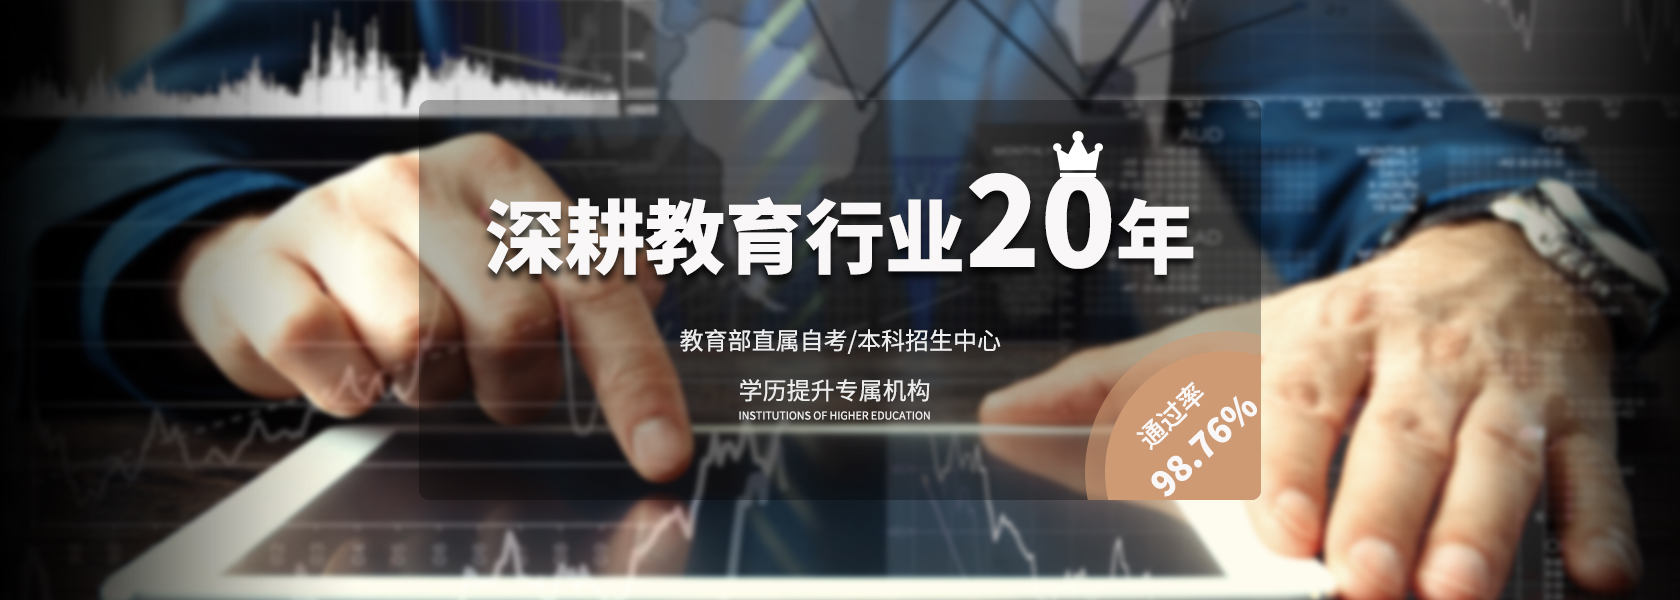
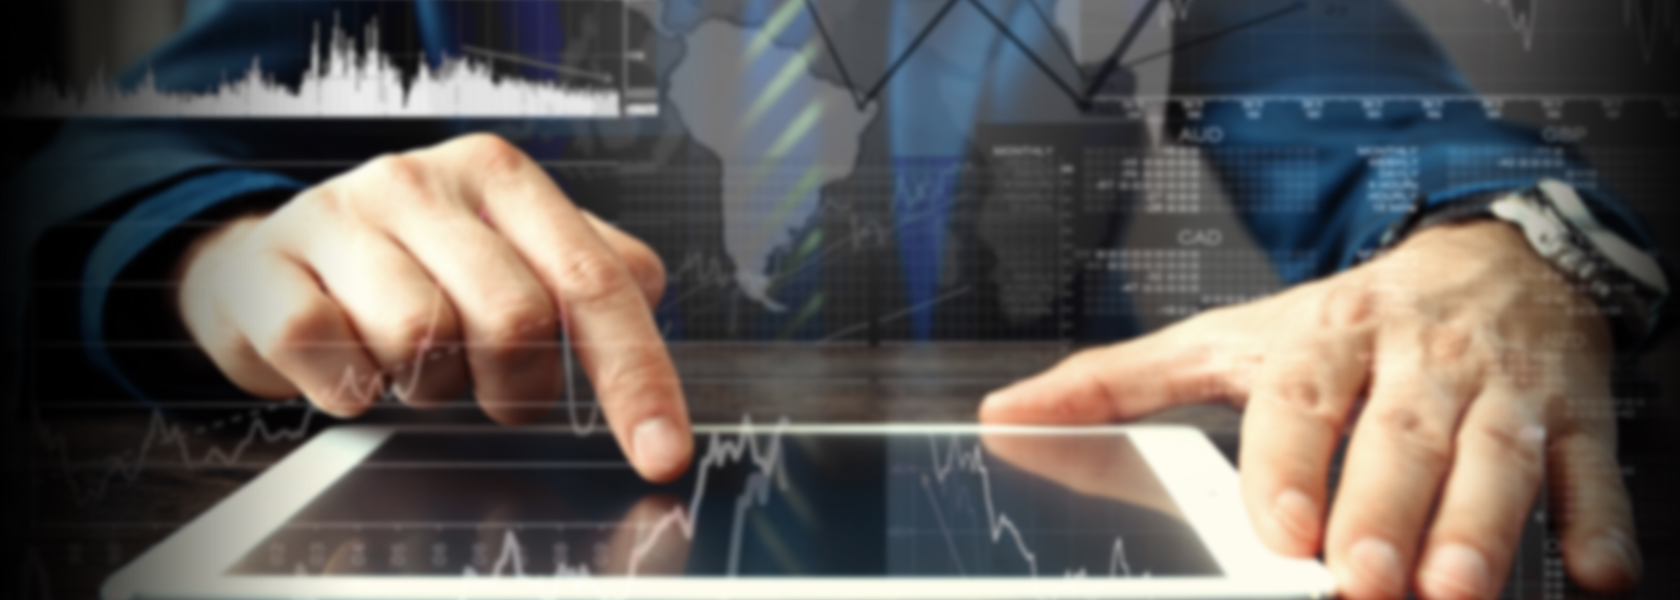
才改好banner...

Changed region(s): [[0.2476, 0.15, 0.7738, 0.84]]

diff --git a/htmls/school_index.html b/htmls/school_index.html
@@ -25,7 +25,44 @@
     </ul>
 </div>
 <div class="banner">
-    <img src="../images/banner.jpg" alt="">
+    <div class="content clearfix">
+        <img class="fl" src="../images/banner_content.png" alt="">
+        <div class="ask fr">
+            <h1>报考前常见问题</h1>
+            <div class="lists clearfix">
+                <ul class="fl">
+                    <li><a href="">学费多少？通过率如何？</a></li>
+                    <li><a href="">什么专业容易过？</a></li>
+                    <li><a href="">报考条件、时间？</a></li>
+                    <li><a href="">可以到校上课么？</a></li>
+                    <li class="hot"><a href="">上班族怎么上课？</a></li>
+                </ul>
+                <ul class="fr">
+                    <li class="hot"><a href="">VIP保证班？</a></li>
+                    <li class="hot"><a href="">证书学信网可以查到么？</a></li>
+                    <li><a href="">中小学毕业能直接读本科么？</a></li>
+                    <li><a href="">热门高薪专业？</a></li>
+                    <li><a href="">最快多久可以拿证？</a></li>
+                </ul>
+            </div>
+            <h1>考生须知</h1>
+            <div class="lists clearfix">
+                <ul class="fl">
+                    <li><a href="">最新免考政策？</a></li>
+                    <li><a href="">在线学历验证</a></li>
+                    <li><a href="">内部学籍补录</a></li>
+                    <li><a href="">全程托管无忧</a></li>
+                </ul>
+                <ul class="fr">
+                    <li class="hot"><a href="">哪些专业免考高数、英语？</a></li>
+                    <li class="hot"><a href="">学士、学位申请？</a></li>
+                    <li><a href="">学费多少？</a></li>
+                    <li><a href="">循环听课？</a></li>
+                </ul>
+            </div>
+
+        </div>
+    </div>
 </div>
 <div class="choose-box">
     <h1><span>您可以<em>选择</em>的学历</span></h1>

diff --git a/css/school_index.css b/css/school_index.css
@@ -66,13 +66,69 @@
     width:100%;
     background:#000;
     margin-top:100px;
+    height: 500px;
+    background:url("../images/banner.jpg") left top no-repeat;
+    background-size: 100% 100%;
+    overflow:hidden;
 }
-.banner img{
+.banner .content{
+    width: 1200px;
+    margin: 70px auto;
+    height: 400px;
+    overflow:hidden;
+}
+.banner .content img{
     display:block;
-    max-width:1680px;
-    width:100%;
-    margin:0 auto;
-    height:auto;
+    width: 700px;
+    height: 333px;
+}
+.banner .content .ask{
+    width: 450px;
+    height: 333px;
+    /*background:rgba(255,255,255,0.5);*/
+    background:rgba(0,0,0,0.5);
+    -webkit-border-radius: 8px;
+    -moz-border-radius: 8px;
+    border-radius: 8px;
+    -webkit-box-sizing: border-box;
+    -moz-box-sizing: border-box;
+    box-sizing: border-box;
+    padding:5px 20px;
+}
+.banner .ask h1{
+    font-size: 20px;
+    color:#ce9a74;
+    height: 40px;
+    line-height: 40px;
+}
+.banner .ask ul{
+    width: 50%;
+    -webkit-box-sizing: border-box;
+    -moz-box-sizing: border-box;
+    box-sizing: border-box;
+    padding-right: 20px;
+}
+.banner .ask ul li{
+    height: 26px;
+    line-height:26px;
+}
+.banner .ask ul li a{
+    color:#eeeeee;
+    white-space: nowrap;
+    overflow:hidden;
+    text-overflow:ellipsis;
+    font-size: 14px;
+}
+.banner .ask ul li.hot a{
+    font-weight: 600;
+    color:#f89247;
+}
+.banner .ask ul li a:hover{
+    text-decoration: underline;
+    color:#fff;
+}
+.banner .ask ul li.hot a:hover{
+    color:#feba88;
 }
 .choose-box{
     width: 1180px;
